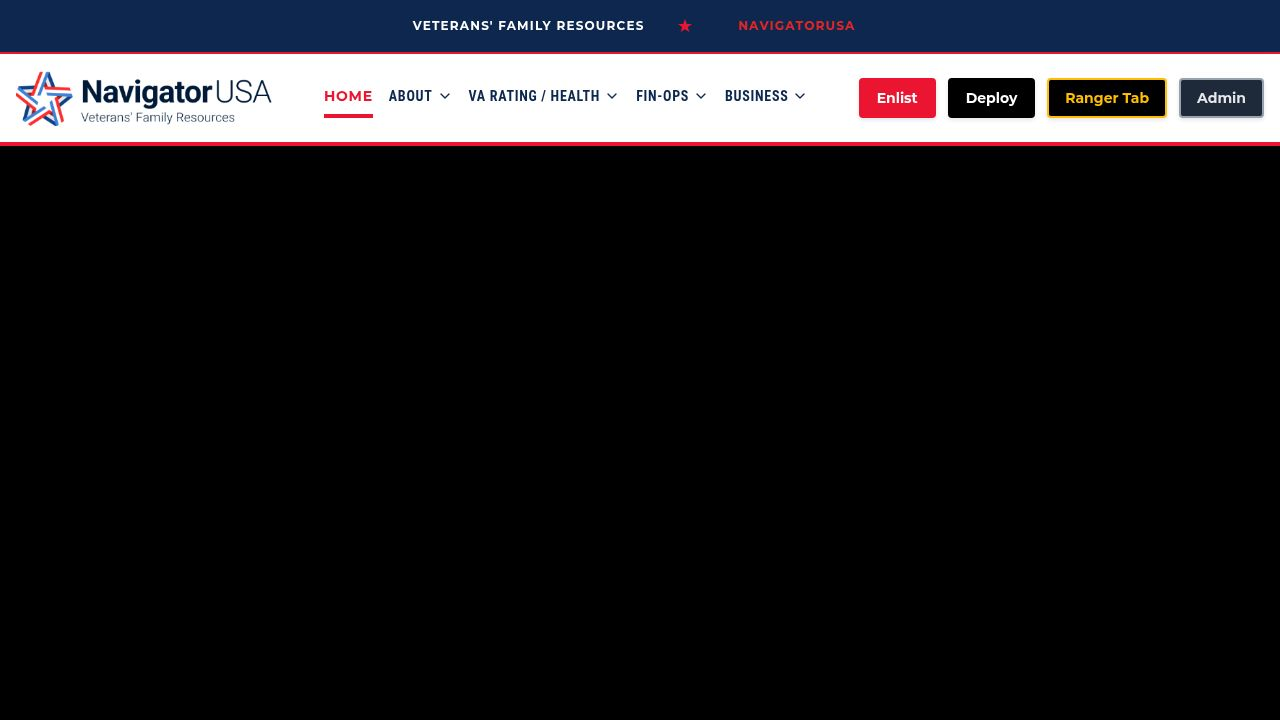
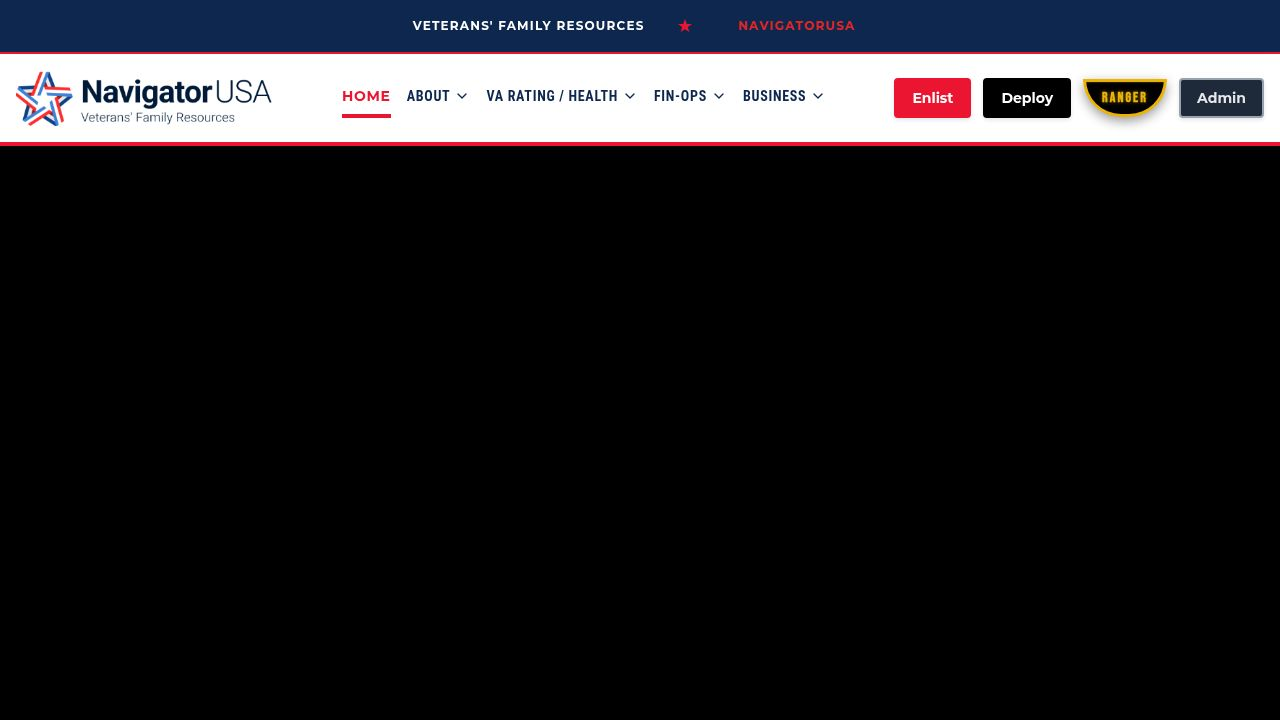
Update Ranger Tab style to match a real military patch shape
Adjust CSS for the `.ranger-tab-patch` class to apply a border-radius that creates a curve on the bottom, mimicking the shape of an actual Ranger Tab military patch.

Replit-Commit-Author: Agent
Replit-Commit-Session-Id: 4bcf52f5-eead-4541-a161-487852c04bf9
Replit-Commit-Checkpoint-Type: intermediate_checkpoint
Replit-Commit-Event-Id: 093ac40f-81b2-4383-8a6c-970bf0ff4150
Replit-Commit-Screenshot-Url: https://storage.googleapis.com/screenshot-production-us-central1/f88dd830-92ac-4d12-a8c1-ac72bcbfbb85/4bcf52f5-eead-4541-a161-487852c04bf9/t8YHedI
Replit-Helium-Checkpoint-Created: true

Changed region(s): [[0.6562, 0.0917, 0.9375, 0.1833], [0.25, 0.1222, 0.625, 0.1528]]

diff --git a/client/src/index.css b/client/src/index.css
@@ -265,7 +265,7 @@
   letter-spacing: 0.05em;
 }
 
-/* Ranger Tab Patch Style - curved arc like the real military patch */
+/* Ranger Tab Patch Style - curved arc on bottom like the real military patch */
 .ranger-tab-patch {
   display: inline-flex;
   align-items: center;
@@ -275,10 +275,10 @@
   font-family: var(--font-display);
   font-weight: 700;
   text-transform: uppercase;
-  letter-spacing: 0.1em;
-  padding: 0.5rem 1.5rem;
+  letter-spacing: 0.15em;
+  padding: 0.4rem 1.5rem 0.5rem;
   border: 3px solid #EAB308;
-  border-radius: 50px 50px 0 0;
+  border-radius: 0 0 40px 40px;
   position: relative;
   text-shadow: 0 0 4px rgba(234, 179, 8, 0.5);
   box-shadow: 0 4px 12px rgba(0, 0, 0, 0.4), inset 0 1px 2px rgba(234, 179, 8, 0.2);
@@ -293,11 +293,11 @@
 
 .ranger-tab-patch-nav {
   font-size: 0.875rem;
-  padding: 0.4rem 1rem;
+  padding: 0.35rem 1rem 0.4rem;
 }
 
 .ranger-tab-patch-lg {
   font-size: 1.125rem;
-  padding: 0.6rem 2rem;
+  padding: 0.5rem 2rem 0.6rem;
 }
 
